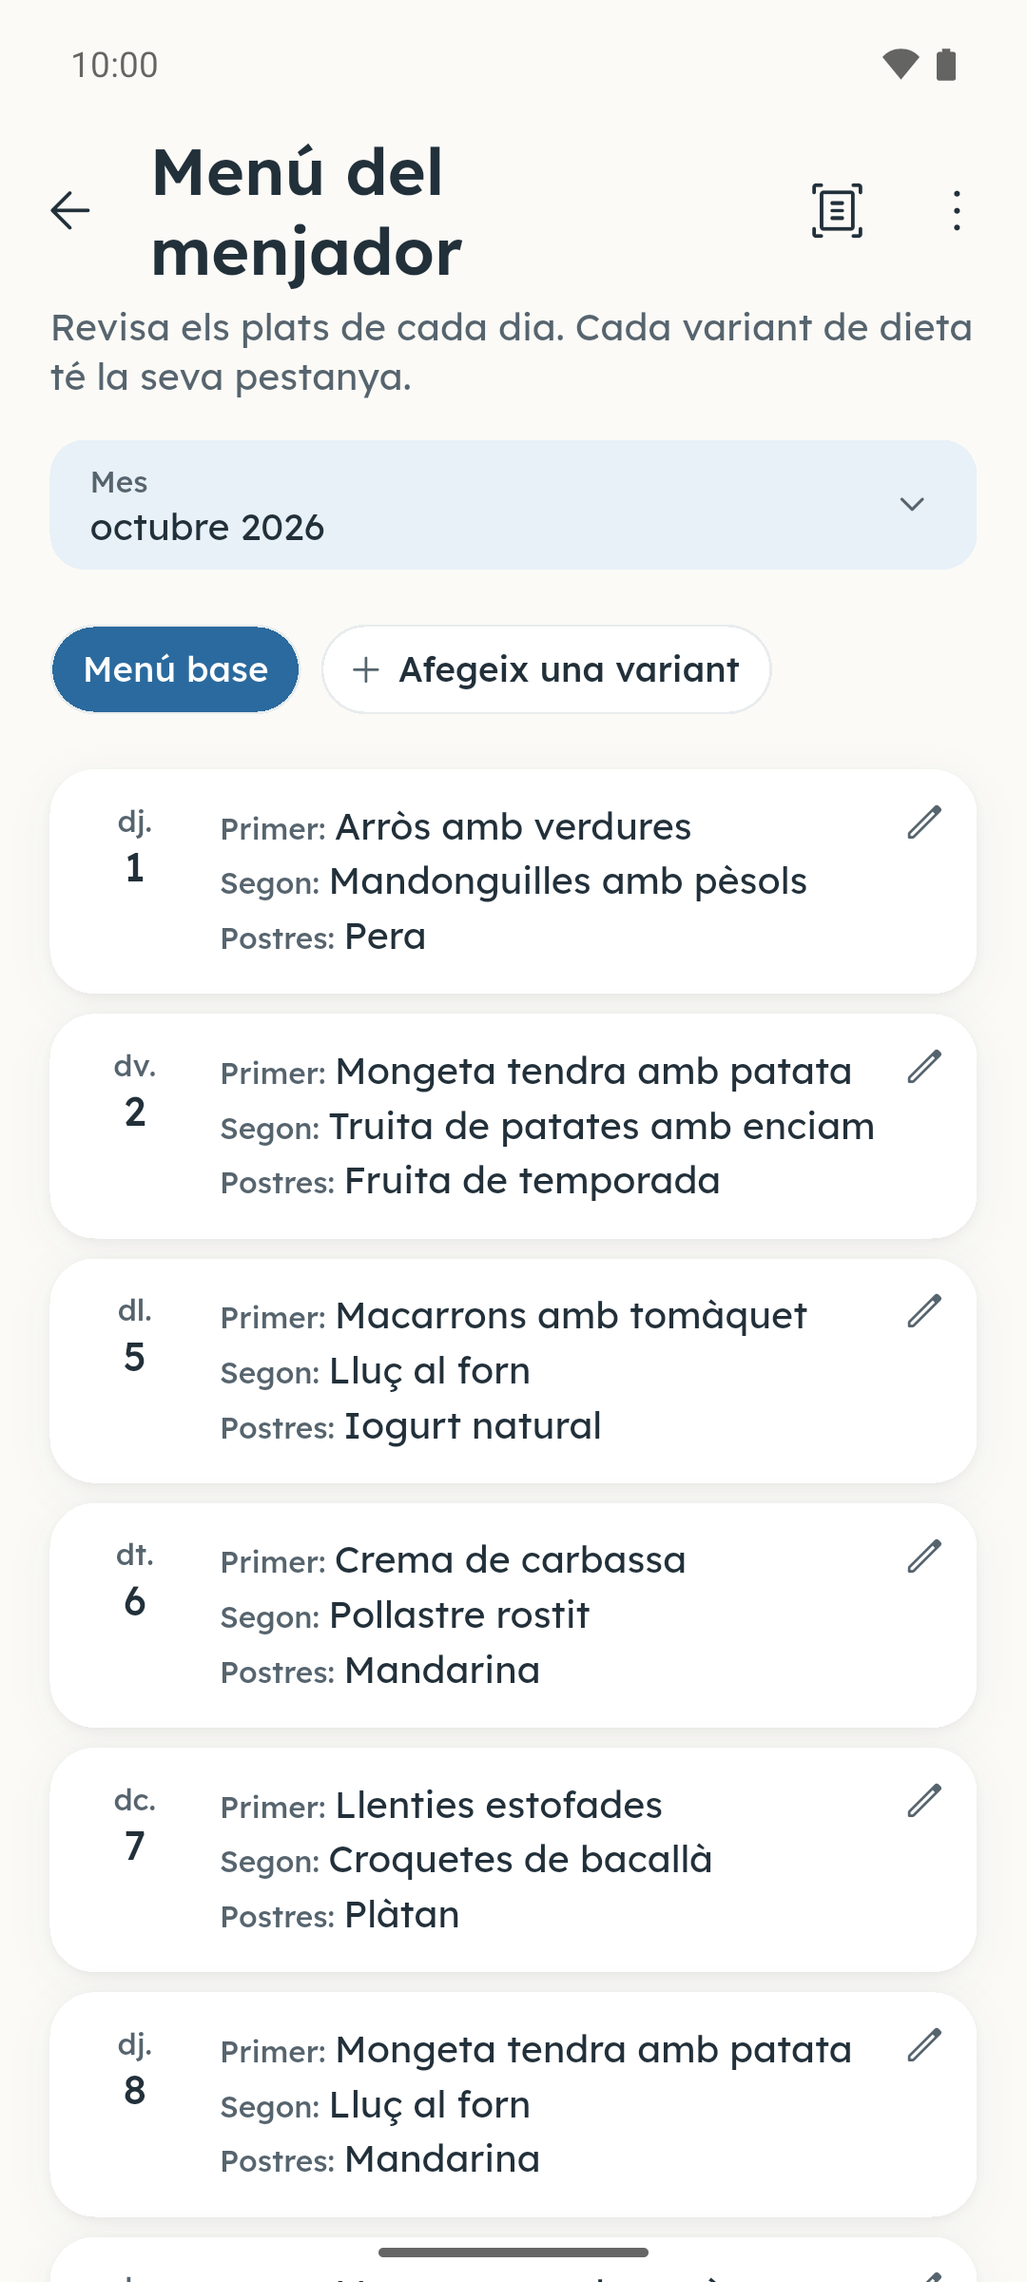
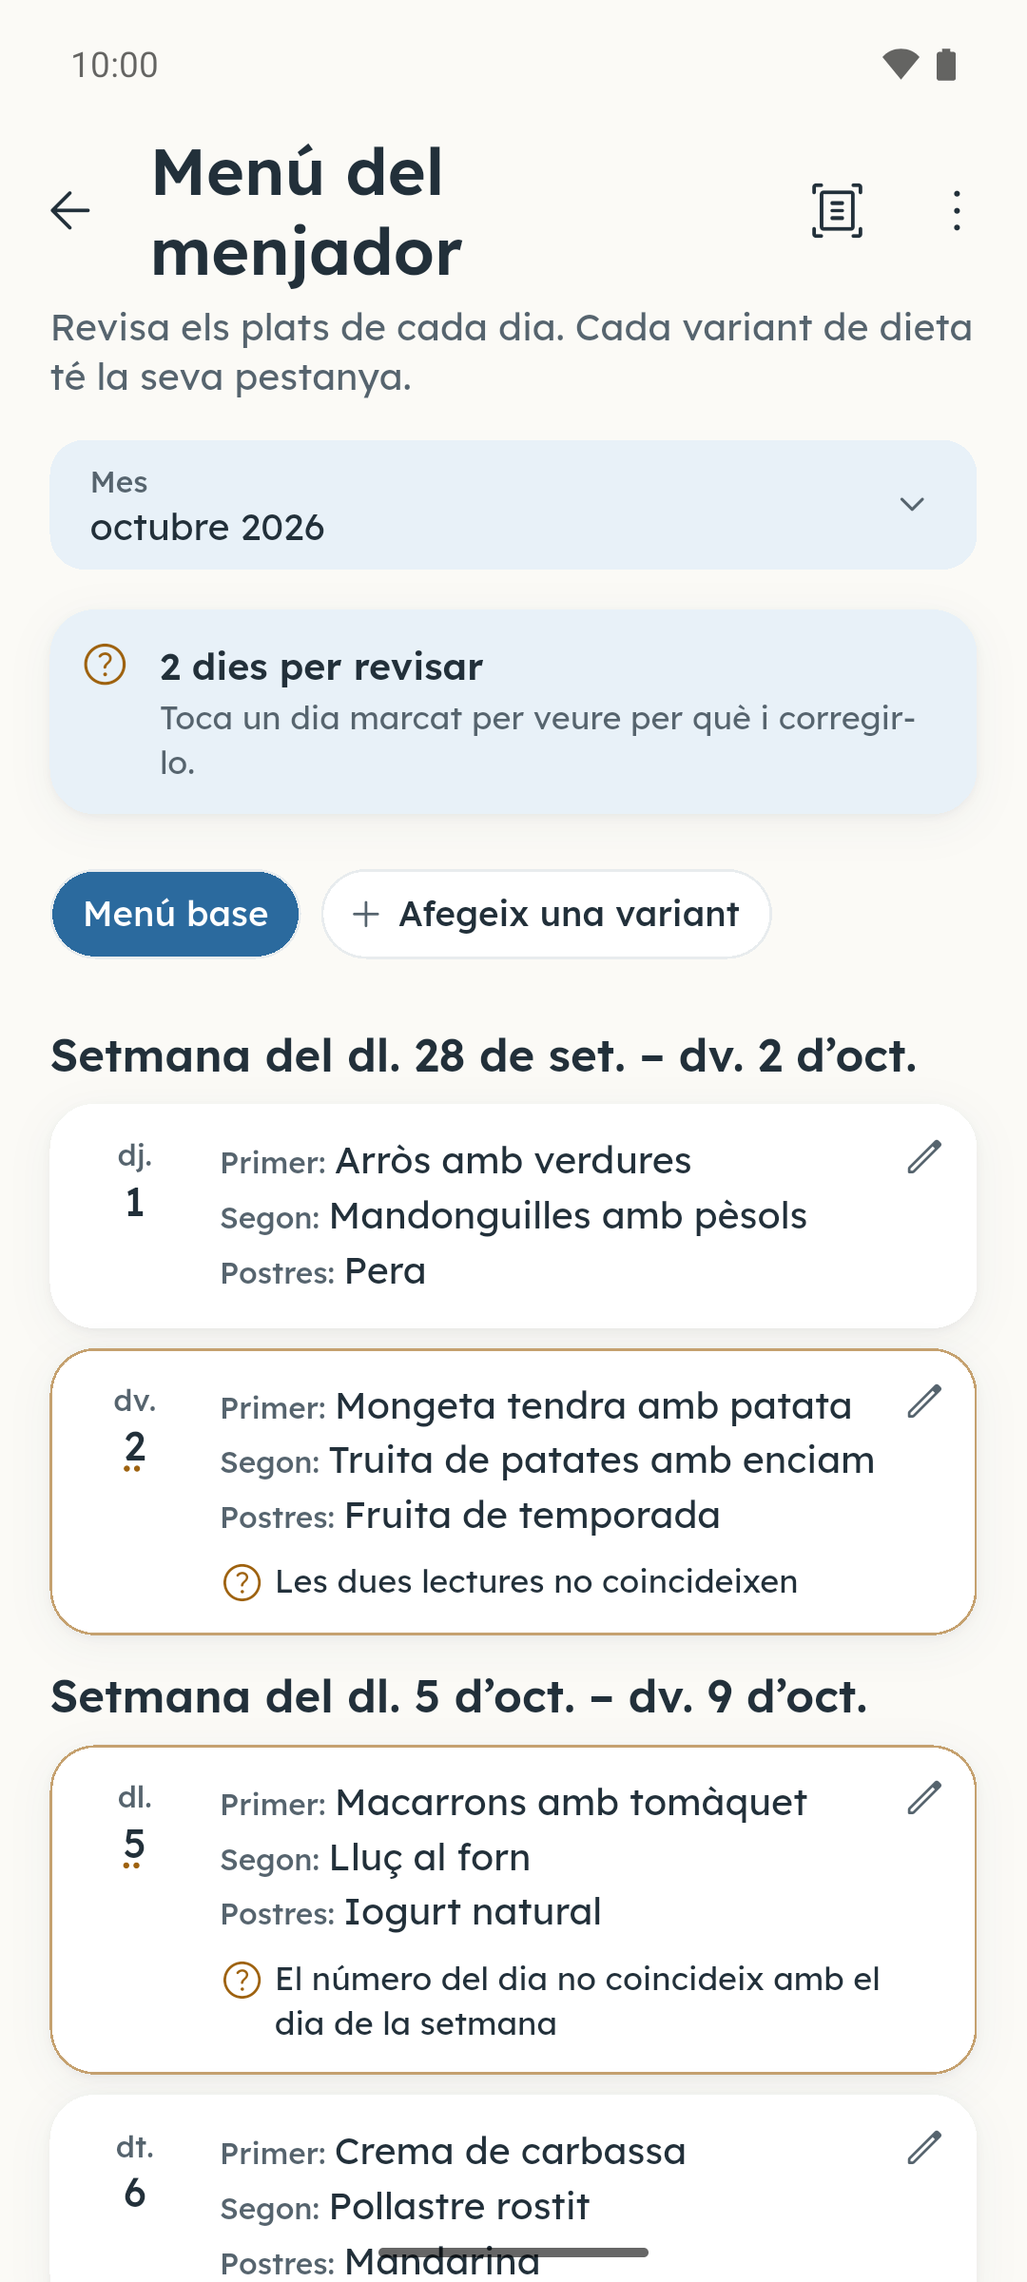
README 0.4.0: limited access, menu review screenshot, what's new

diff --git a/README.eu.md b/README.eu.md
@@ -46,18 +46,19 @@ Hasierako aldi honetan, Mochila doakoa da eta ez du iragarkirik. Kontu bat sortu
 
 <p>
   <a href="docs/readme/eu/01-today.png"><img src="docs/readme/eu/01-today.png" width="19%" alt="Gaur: seme-alaba bakoitzak zer daraman, zer duen eskolan eta zeren epea amaitzen den"></a>
-  <a href="docs/readme/eu/02-week.png"><img src="docs/readme/eu/02-week.png" width="19%" alt="Astea: datorren guztia, egunez egun"></a>
   <a href="docs/readme/eu/03-import.png"><img src="docs/readme/eu/03-import.png" width="19%" alt="Gehitu: mezu batetik ateratako proposamenak, berresteko, aldatzeko edo baztertzeko prest"></a>
-  <a href="docs/readme/eu/04-school-menu.png"><img src="docs/readme/eu/04-school-menu.png" width="19%" alt="Jantokiko menua, PDF batetik irakurrita eta berrikusita"></a>
+  <a href="docs/readme/eu/04-school-menu.png"><img src="docs/readme/eu/04-school-menu.png" width="19%" alt="Jantokiko menua, PDF batetik irakurrita eta berrikusita, egiaztatzea komeni diren egunak markatuta"></a>
   <a href="docs/readme/eu/05-family.png"><img src="docs/readme/eu/05-family.png" width="19%" alt="Familia: ikastetxea, ordutegiekin, jantokiko menuarekin eta egutegiarekin"></a>
+  <a href="docs/readme/eu/06-limited.png"><img src="docs/readme/eu/06-limited.png" width="19%" alt="Gaur sarbide mugatua duen pertsona batentzat: eskola, motxila eta jasotzeak, ikusteko bakarrik"></a>
 </p>
 
 <details>
 <summary>Pantaila-argazki gehiago</summary>
 
 <p>
-  <a href="docs/readme/eu/06-privacy.png"><img src="docs/readme/eu/06-privacy.png" width="19%" alt="Pribatutasuna eta AA: zer ateratzen den mugikorretik eta zer ez"></a>
-  <a href="docs/readme/eu/07-dark.png"><img src="docs/readme/eu/07-dark.png" width="19%" alt="Gaur modu ilunean"></a>
+  <a href="docs/readme/eu/02-week.png"><img src="docs/readme/eu/02-week.png" width="19%" alt="Astea: datorren guztia, egunez egun"></a>
+  <a href="docs/readme/eu/07-privacy.png"><img src="docs/readme/eu/07-privacy.png" width="19%" alt="Pribatutasuna eta AA: zer ateratzen den mugikorretik eta zer ez"></a>
+  <a href="docs/readme/eu/08-dark.png"><img src="docs/readme/eu/08-dark.png" width="19%" alt="Gaur modu ilunean"></a>
 </p>
 
 </details>
@@ -69,6 +70,7 @@ Sakatu pantaila-argazki bat handitzeko. Benetako pantailak dira, asmatutako datu
 - **Gaur, begirada batean.** Seme-alaba bakoitzak zer daraman, zer duen eskolan eta zeren epea amaitzen den; arratsaldean hurrengo eguna erakusten du jada.
 - **Zuk erabakitzen duzu.** Mochilak data, ordua, seme-alaba eta eraman, ordaindu edo sinatu beharrekoa proposatzen ditu, eta zuk gauza bakoitza berretsi, aldatu edo baztertzen duzu.
 - **Beste helduarekin partekatua.** Kode baten bidez gonbidatzen duzu, eta gauza bera ikusten duzue: datak, zereginak, motxila eta nork jasoko duen.
+- **Sarbide mugatua.** Jasotzeetan laguntzen duen pertsona batek Gaur, astea eta aukeratzen dituzun seme-alaben jasotzeak ikus ditzake, kontsultatzeko bakarrik.
 - **Eskola-egutegia barne.** Zure erkidegoko eskola-egutegi ofiziala eta zure udalerriko jaiegunak jarrita daude, eta ikastetxeak erabakitako egun libreak gehi ditzakezu.
 - **Ordutegia eta jantokiko menua.** Seme-alaba bakoitzaren ordutegia eta jantokiko menua, argazki edo PDF batetik irakurrita.
 - **Gaueko laburpena.** Gauero gogorarazten dizu hurrengo egunean zer eraman, ordaindu eta sinatu behar den.
@@ -90,6 +92,12 @@ Argazkiak eta PDFak telefonoan irakurtzen dira, eta testua bakarrik bidaltzen da
 [Pribatutasun-politika](https://lamochila.app/privacidad) (gaztelaniaz) · [Ezabatu kontua](https://lamochila.app/eliminar-cuenta)
 
 ## Berriak
+
+**0.4.0**
+
+- **Sarbide mugatua duten pertsonak.** Bi gehitu ditzakezu (adibidez, jasotzeetan laguntzen duen norbait). Gaur, astea eta aukeratzen dituzun seme-alaben jasotzeak ikusten dituzte, eta begiratu besterik ezin dute egin.
+- **Menuen eta ordutegien berrikuspena.** Orain paperaren itxura du eta egiaztatzea komeni diren egunak markatzen ditu, bakoitzean arrazoi labur batekin.
+- **Urtea urruneko datetan.** Beste urte bateko datak orain urtea erakusten du.
 
 Bertsio bakoitzeko berrikuntzak (ingelesez): [CHANGELOG.md](CHANGELOG.md).
 

diff --git a/README.es.md b/README.es.md
@@ -46,18 +46,19 @@ Durante el lanzamiento, Mochila es gratis y no tiene anuncios. Puedes empezar si
 
 <p>
   <a href="docs/readme/es/01-today.png"><img src="docs/readme/es/01-today.png" width="19%" alt="Hoy: qué lleva cada hijo, qué toca en el cole y qué vence"></a>
-  <a href="docs/readme/es/02-week.png"><img src="docs/readme/es/02-week.png" width="19%" alt="Semana: todo lo que viene, día a día"></a>
   <a href="docs/readme/es/03-import.png"><img src="docs/readme/es/03-import.png" width="19%" alt="Añadir: las propuestas de un mensaje, listas para confirmar, cambiar o descartar"></a>
-  <a href="docs/readme/es/04-school-menu.png"><img src="docs/readme/es/04-school-menu.png" width="19%" alt="Menú del comedor, leído de un PDF y revisado"></a>
+  <a href="docs/readme/es/04-school-menu.png"><img src="docs/readme/es/04-school-menu.png" width="19%" alt="Menú del comedor, leído de un PDF y revisado, con los días que conviene comprobar marcados"></a>
   <a href="docs/readme/es/05-family.png"><img src="docs/readme/es/05-family.png" width="19%" alt="Familia: el cole, con sus horarios, el menú del comedor y el calendario"></a>
+  <a href="docs/readme/es/06-limited.png"><img src="docs/readme/es/06-limited.png" width="19%" alt="Hoy para una persona con acceso limitado: cole, mochila y recogidas, solo para ver"></a>
 </p>
 
 <details>
 <summary>Más capturas</summary>
 
 <p>
-  <a href="docs/readme/es/06-privacy.png"><img src="docs/readme/es/06-privacy.png" width="19%" alt="Privacidad e IA: qué sale del móvil y qué no"></a>
-  <a href="docs/readme/es/07-dark.png"><img src="docs/readme/es/07-dark.png" width="19%" alt="Hoy en modo oscuro"></a>
+  <a href="docs/readme/es/02-week.png"><img src="docs/readme/es/02-week.png" width="19%" alt="Semana: todo lo que viene, día a día"></a>
+  <a href="docs/readme/es/07-privacy.png"><img src="docs/readme/es/07-privacy.png" width="19%" alt="Privacidad e IA: qué sale del móvil y qué no"></a>
+  <a href="docs/readme/es/08-dark.png"><img src="docs/readme/es/08-dark.png" width="19%" alt="Hoy en modo oscuro"></a>
 </p>
 
 </details>
@@ -69,6 +70,7 @@ Pulsa una captura para ampliarla. Pantallas reales con datos inventados.
 - **Hoy, de un vistazo.** Qué lleva cada hijo, qué toca en el cole y qué vence; por la tarde ya enseña el día siguiente.
 - **Tú decides.** Mochila propone la fecha, la hora, el hijo y lo que hay que llevar, pagar o firmar, y tú confirmas, cambias o descartas cada cosa.
 - **Compartida con el otro adulto.** Lo invitas con un código y los dos veis lo mismo: fechas, tareas, la mochila y quién recoge.
+- **Acceso limitado.** Una persona que ayuda con las recogidas ve Hoy, la semana y las recogidas de los hijos que elijas, solo para consultar.
 - **Calendario escolar incluido.** El calendario oficial de tu comunidad y los festivos de tu municipio ya vienen puestos, y puedes añadir los días de libre disposición de tu cole.
 - **Horario y menú del comedor.** El horario de cada hijo y el menú del comedor, leídos de una foto o de un PDF.
 - **Resumen de cada noche.** Cada noche te recuerda qué hay que llevar, pagar y firmar al día siguiente.
@@ -90,6 +92,12 @@ Las fotos y los PDF se leen en el teléfono y solo se envía el texto; si eliges
 [Política de privacidad](https://lamochila.app/privacidad) · [Eliminar la cuenta](https://lamochila.app/eliminar-cuenta)
 
 ## Novedades
+
+**0.4.0**
+
+- **Personas con acceso limitado.** Puedes añadir hasta dos (por ejemplo, alguien que ayuda con las recogidas). Ven Hoy, la semana y las recogidas de los hijos que elijas, y solo pueden mirar.
+- **Revisión de menús y horarios.** Ahora se ve como el papel y marca los días que conviene comprobar, con un motivo breve en cada uno.
+- **El año en las fechas lejanas.** Una fecha de otro año ahora muestra el año.
 
 Novedades de cada versión (en inglés): [CHANGELOG.md](CHANGELOG.md).
 

diff --git a/README.ca.md b/README.ca.md
@@ -46,18 +46,19 @@ Durant el llançament, Mochila és gratuïta i no té anuncis. Pots començar se
 
 <p>
   <a href="docs/readme/ca/01-today.png"><img src="docs/readme/ca/01-today.png" width="19%" alt="Avui: què porta cada fill, què toca a l’escola i què venç"></a>
-  <a href="docs/readme/ca/02-week.png"><img src="docs/readme/ca/02-week.png" width="19%" alt="Setmana: tot el que ve, dia a dia"></a>
   <a href="docs/readme/ca/03-import.png"><img src="docs/readme/ca/03-import.png" width="19%" alt="Afegir: les propostes d’un missatge, a punt per confirmar, canviar o descartar"></a>
-  <a href="docs/readme/ca/04-school-menu.png"><img src="docs/readme/ca/04-school-menu.png" width="19%" alt="Menú del menjador, llegit d’un PDF i revisat"></a>
+  <a href="docs/readme/ca/04-school-menu.png"><img src="docs/readme/ca/04-school-menu.png" width="19%" alt="Menú del menjador, llegit d’un PDF i revisat, amb els dies que convé comprovar marcats"></a>
   <a href="docs/readme/ca/05-family.png"><img src="docs/readme/ca/05-family.png" width="19%" alt="Família: l’escola, amb els horaris, el menú del menjador i el calendari"></a>
+  <a href="docs/readme/ca/06-limited.png"><img src="docs/readme/ca/06-limited.png" width="19%" alt="Avui per a una persona amb accés limitat: escola, motxilla i recollides, només per veure"></a>
 </p>
 
 <details>
 <summary>Més captures</summary>
 
 <p>
-  <a href="docs/readme/ca/06-privacy.png"><img src="docs/readme/ca/06-privacy.png" width="19%" alt="Privadesa i IA: què surt del mòbil i què no"></a>
-  <a href="docs/readme/ca/07-dark.png"><img src="docs/readme/ca/07-dark.png" width="19%" alt="Avui en mode fosc"></a>
+  <a href="docs/readme/ca/02-week.png"><img src="docs/readme/ca/02-week.png" width="19%" alt="Setmana: tot el que ve, dia a dia"></a>
+  <a href="docs/readme/ca/07-privacy.png"><img src="docs/readme/ca/07-privacy.png" width="19%" alt="Privadesa i IA: què surt del mòbil i què no"></a>
+  <a href="docs/readme/ca/08-dark.png"><img src="docs/readme/ca/08-dark.png" width="19%" alt="Avui en mode fosc"></a>
 </p>
 
 </details>
@@ -69,6 +70,7 @@ Prem una captura per ampliar-la. Pantalles reals amb dades inventades.
 - **Avui, d’un cop d’ull.** Què porta cada fill, què toca a l’escola i què venç; a la tarda ja ensenya l’endemà.
 - **Tu decideixes.** Mochila proposa la data, l’hora, el fill i el que cal portar, pagar o signar, i tu confirmes, canvies o descartes cada cosa.
 - **Compartida amb l’altre adult.** El convides amb un codi i tots dos veieu el mateix: dates, tasques, la motxilla i qui recull.
+- **Accés limitat.** Una persona que ajuda amb les recollides veu Avui, la setmana i les recollides dels fills que triïs, només per consultar.
 - **Calendari escolar inclòs.** El calendari oficial de la teva comunitat i els festius del teu municipi ja hi són, i hi pots afegir els dies de lliure disposició de la teva escola.
 - **Horari i menú del menjador.** L’horari de cada fill i el menú del menjador, llegits d’una foto o d’un PDF.
 - **Resum de cada vespre.** Cada vespre et recorda què cal portar, pagar i signar l’endemà.
@@ -90,6 +92,12 @@ Les fotos i els PDF es llegeixen al telèfon i només se n’envia el text; si t
 [Política de privadesa](https://lamochila.app/ca/privacitat) · [Eliminar el compte](https://lamochila.app/eliminar-cuenta)
 
 ## Novetats
+
+**0.4.0**
+
+- **Persones amb accés limitat.** Pots afegir-ne fins a dues (per exemple, algú que ajuda amb les recollides). Veuen Avui, la setmana i les recollides dels fills que triïs, i només hi poden mirar.
+- **Revisió de menús i horaris.** Ara es veu com el paper i marca els dies que convé comprovar, amb un motiu breu a cadascun.
+- **L’any en les dates llunyanes.** Una data d’un altre any ara mostra l’any.
 
 Novetats de cada versió (en anglès): [CHANGELOG.md](CHANGELOG.md).
 

diff --git a/README.gl.md b/README.gl.md
@@ -46,18 +46,19 @@ Durante o lanzamento, Mochila é gratuíta e non ten anuncios. Podes comezar sen
 
 <p>
   <a href="docs/readme/gl/01-today.png"><img src="docs/readme/gl/01-today.png" width="19%" alt="Hoxe: que leva cada fillo, que toca no colexio e que vence"></a>
-  <a href="docs/readme/gl/02-week.png"><img src="docs/readme/gl/02-week.png" width="19%" alt="Semana: todo o que vén, día a día"></a>
   <a href="docs/readme/gl/03-import.png"><img src="docs/readme/gl/03-import.png" width="19%" alt="Engadir: as propostas dunha mensaxe, listas para confirmar, cambiar ou descartar"></a>
-  <a href="docs/readme/gl/04-school-menu.png"><img src="docs/readme/gl/04-school-menu.png" width="19%" alt="Menú do comedor, lido dun PDF e revisado"></a>
+  <a href="docs/readme/gl/04-school-menu.png"><img src="docs/readme/gl/04-school-menu.png" width="19%" alt="Menú do comedor, lido dun PDF e revisado, cos días que convén comprobar marcados"></a>
   <a href="docs/readme/gl/05-family.png"><img src="docs/readme/gl/05-family.png" width="19%" alt="Familia: o colexio, cos horarios, o menú do comedor e o calendario"></a>
+  <a href="docs/readme/gl/06-limited.png"><img src="docs/readme/gl/06-limited.png" width="19%" alt="Hoxe para unha persoa con acceso limitado: colexio, mochila e recollidas, só para ver"></a>
 </p>
 
 <details>
 <summary>Máis capturas</summary>
 
 <p>
-  <a href="docs/readme/gl/06-privacy.png"><img src="docs/readme/gl/06-privacy.png" width="19%" alt="Privacidade e IA: que sae do móbil e que non"></a>
-  <a href="docs/readme/gl/07-dark.png"><img src="docs/readme/gl/07-dark.png" width="19%" alt="Hoxe en modo escuro"></a>
+  <a href="docs/readme/gl/02-week.png"><img src="docs/readme/gl/02-week.png" width="19%" alt="Semana: todo o que vén, día a día"></a>
+  <a href="docs/readme/gl/07-privacy.png"><img src="docs/readme/gl/07-privacy.png" width="19%" alt="Privacidade e IA: que sae do móbil e que non"></a>
+  <a href="docs/readme/gl/08-dark.png"><img src="docs/readme/gl/08-dark.png" width="19%" alt="Hoxe en modo escuro"></a>
 </p>
 
 </details>
@@ -69,6 +70,7 @@ Preme unha captura para ampliala. Pantallas reais con datos inventados.
 - **Hoxe, dunha ollada.** Que leva cada fillo, que toca no colexio e que vence; pola tarde xa amosa o día seguinte.
 - **Ti decides.** Mochila propón a data, a hora, o fillo e o que hai que levar, pagar ou asinar, e ti confirmas, cambias ou descartas cada cousa.
 - **Compartida co outro adulto.** Convídalo cun código e os dous vedes o mesmo: datas, tarefas, a mochila e quen recolle.
+- **Acceso limitado.** Unha persoa que axuda coas recollidas ve Hoxe, a semana e as recollidas dos fillos que escollas, só para consultar.
 - **Calendario escolar incluído.** O calendario oficial da túa comunidade e os festivos do teu concello xa veñen postos, e podes engadir os días de libre disposición do teu colexio.
 - **Horario e menú do comedor.** O horario de cada fillo e o menú do comedor, lidos dunha foto ou dun PDF.
 - **Resumo da noite.** Cada noite lémbrache que hai que levar, pagar e asinar ao día seguinte.
@@ -90,6 +92,12 @@ As fotos e os PDF lense no teléfono e só se envía o texto; se escolles unha l
 [Política de privacidade](https://lamochila.app/privacidad) (en castelán) · [Eliminar a conta](https://lamochila.app/eliminar-cuenta)
 
 ## Novidades
+
+**0.4.0**
+
+- **Persoas con acceso limitado.** Podes engadir ata dúas (por exemplo, alguén que axuda coas recollidas). Ven Hoxe, a semana e as recollidas dos fillos que escollas, e só poden mirar.
+- **Revisión de menús e horarios.** Agora vese como o papel e marca os días que convén comprobar, cun motivo breve en cada un.
+- **O ano nas datas afastadas.** Unha data doutro ano agora mostra o ano.
 
 Novidades de cada versión (en inglés): [CHANGELOG.md](CHANGELOG.md).
 

diff --git a/README.md b/README.md
@@ -46,18 +46,19 @@ During the launch, Mochila is free and shows no ads. You can start without creat
 
 <p>
   <a href="docs/readme/en/01-today.png"><img src="docs/readme/en/01-today.png" width="19%" alt="Today: what each child takes, what is on at school and what is due"></a>
-  <a href="docs/readme/en/02-week.png"><img src="docs/readme/en/02-week.png" width="19%" alt="Week: everything coming up, day by day"></a>
   <a href="docs/readme/en/03-import.png"><img src="docs/readme/en/03-import.png" width="19%" alt="Add: the suggestions from a message, ready to confirm, edit or discard"></a>
-  <a href="docs/readme/en/04-school-menu.png"><img src="docs/readme/en/04-school-menu.png" width="19%" alt="School lunch menu, read from a PDF and reviewed"></a>
+  <a href="docs/readme/en/04-school-menu.png"><img src="docs/readme/en/04-school-menu.png" width="19%" alt="School lunch menu, read from a PDF and reviewed, with the days worth checking marked"></a>
   <a href="docs/readme/en/05-family.png"><img src="docs/readme/en/05-family.png" width="19%" alt="Family: the school, with its timetables, lunch menu and calendar"></a>
+  <a href="docs/readme/en/06-limited.png"><img src="docs/readme/en/06-limited.png" width="19%" alt="Today for a person with limited access: school, bag and pickups, view only"></a>
 </p>
 
 <details>
 <summary>More screenshots</summary>
 
 <p>
-  <a href="docs/readme/en/06-privacy.png"><img src="docs/readme/en/06-privacy.png" width="19%" alt="Privacy and AI: what leaves the phone and what does not"></a>
-  <a href="docs/readme/en/07-dark.png"><img src="docs/readme/en/07-dark.png" width="19%" alt="Today in dark mode"></a>
+  <a href="docs/readme/en/02-week.png"><img src="docs/readme/en/02-week.png" width="19%" alt="Week: everything coming up, day by day"></a>
+  <a href="docs/readme/en/07-privacy.png"><img src="docs/readme/en/07-privacy.png" width="19%" alt="Privacy and AI: what leaves the phone and what does not"></a>
+  <a href="docs/readme/en/08-dark.png"><img src="docs/readme/en/08-dark.png" width="19%" alt="Today in dark mode"></a>
 </p>
 
 </details>
@@ -69,6 +70,7 @@ Tap a screenshot to enlarge it. Real screens with made-up details.
 - **Today at a glance.** What each child takes, what is on at school and what is due; in the afternoon it already shows tomorrow.
 - **You have the last word.** Mochila suggests the date, the time, the child and what to bring, pay or sign, and you confirm, edit or discard each item.
 - **Shared with the other adult.** Invite them with a code and you both see the same dates, tasks, bag and pickups.
+- **Limited access.** Someone who helps with pickups sees Today, the week and pickups for the children you choose, view only.
 - **School calendar included.** Your region's official school calendar and your town's holidays are already there, and you can add your school's own days off.
 - **Timetable and lunch menu.** Each child's timetable and the school lunch menu, read from a photo or a PDF.
 - **Evening summary.** Every evening a reminder tells you what to bring, pay and sign the next day.
@@ -90,6 +92,12 @@ Photos and PDFs are read on your phone and only the text is sent; if you choose 
 [Privacy policy](https://lamochila.app/en/privacy) · [Delete account](https://lamochila.app/eliminar-cuenta)
 
 ## What's new
+
+**0.4.0**
+
+- **People with limited access.** You can add up to two (for example, someone who helps with pickups). They see Today, the week and pickups for the children you choose, and can only look.
+- **Menu and timetable review.** It now looks like the paper and marks the days worth checking, with a short reason for each.
+- **The year on far dates.** A date in another year now shows its year.
 
 What's new in each version (in English): [CHANGELOG.md](CHANGELOG.md).
 
